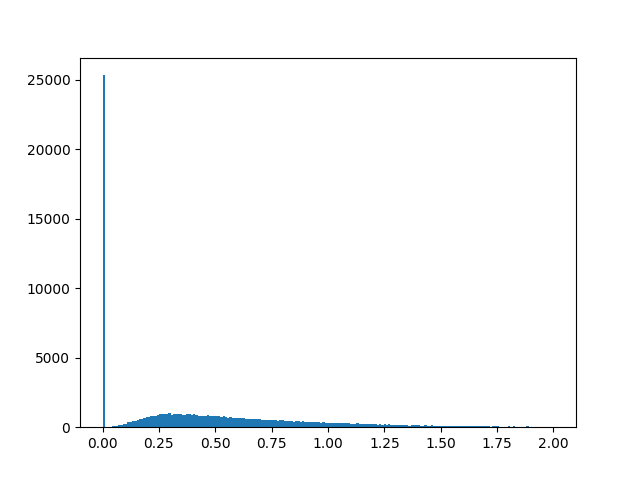
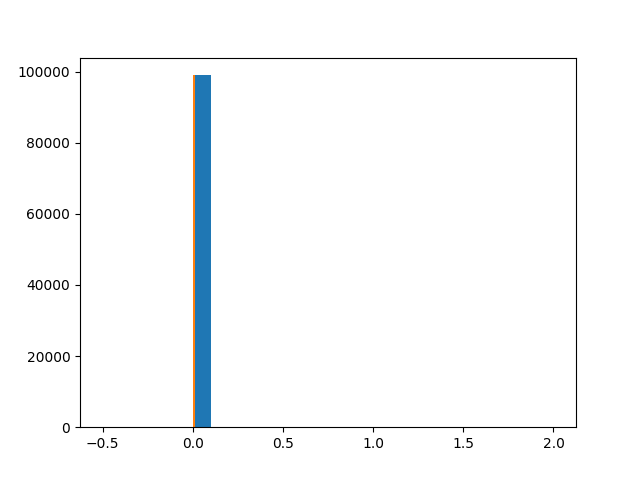
Added example on reading kaskada files

diff --git a/examples/python/test_kaskada.py b/examples/python/test_kaskada.py
@@ -1,0 +1,105 @@
+import pyNUISANCE as pn
+import time
+import matplotlib.pyplot as plt
+import numpy as np
+
+# PRO SELECTA TESTS
+pn.configure()
+
+# SOURCE TEST
+nuwro_source = pn.EventSource("test2_kaskada.root")
+if not nuwro_source: sys.exit()
+
+# FRAME GENERATION
+def hm_muon(evt):
+  part = pn.ps.sel.OutPartHM(evt, pn.ps.pdg.kMuon)
+  if not part: return 0.0
+  return part.momentum().length() * pn.ps.units.GeV
+
+def hm_proton(evt):
+  part = pn.ps.sel.OutPartHM(evt, pn.ps.pdg.kProton)
+  if not part: return 0.0
+  return part.momentum().length() * pn.ps.units.GeV
+
+def hm_neutron(evt):
+  part = pn.ps.sel.OutPartHM(evt, pn.ps.pdg.kNeutron)
+  if not part: return 0.0
+  return part.momentum().length() * pn.ps.units.GeV
+
+def q0(evt):
+    mu = pn.ps.sel.OutPartHM(evt, pn.ps.pdg.kMuon)
+    nu = pn.ps.sel.Beam(evt, pn.ps.pdg.kNuMu)
+    part = pn.ps.proj.parts.q0(nu,mu)
+    if not mu or not nu: return 0
+    return part
+
+def q3(evt):
+    mu = pn.ps.sel.OutPartHM(evt, pn.ps.pdg.kMuon)
+    nu = pn.ps.sel.Beam(evt, pn.ps.pdg.kNuMu)
+    part = pn.ps.proj.parts.q3(nu,mu)
+    if not mu or not nu: return 0
+    return part
+
+
+# Do some testing to grab what we want
+for evt, cw in nuwro_source:
+    outp = pn.ps.sel.OutPartHM(evt,int(pn.ps.pdg.kNeutron))
+    inp = pn.ps.sel.Beam(evt, int(pn.ps.pdg.kNeutron))
+
+    print("INP", outp, inp)
+
+    for vertex in evt.vertices():
+      if vertex.id() == -3: # Nucleon seperation vertex before FSI to get incoming in kaskada
+          for part in vertex.particles_in():
+             print("VERTEX -3, IS_IN", part.status(), part.pid(), part.momentum().e() - part.momentum().m())
+             if part.pid() == 2112:
+                inp = part
+      if vertex.id() == -2:
+          for part in vertex.particles_in():
+             print("FSI", part.status(), part.pid(), part.momentum().e() - part.momentum().m())
+      if vertex.id() == -1: # Hard Scattering outgoing particles
+          for part in vertex.particles_out():
+             print("VERTEX -1, IS_OUT", part.status(), part.pid(), part.momentum().e() - part.momentum().m())
+             if part.pid() == 2112:
+                outp = part
+          
+    if not outp or not inp: continue
+    break
+
+
+    
+# Put all that in a function instead and evaluate into a frame
+def find_scatter_difference(evt):
+  inp = None
+  outp = None
+  for vertex in evt.vertices():
+    if vertex.id() == -3: # Nucleon seperation vertex before FSI to get incoming in kaskada
+        for part in vertex.particles_in():
+            if part.pid() == 2112:
+              inp = part
+    if vertex.id() == -1: # Hard Scattering outgoing particles
+        for part in vertex.particles_out():
+            if part.pid() == 2112:
+              outp = part
+        
+  if not outp or not inp: return -1.0
+  return (inp.momentum() - outp.momentum()).e()
+
+print("FRAME Evaluation")
+fr = pn.FrameGen(nuwro_source, 100000)
+fr.AddColumn("hm_muon", hm_muon)
+fr.AddColumn("hm_proton", hm_proton)
+fr.AddColumn("hm_neutron", hm_neutron)
+fr.AddColumn("scatter_dif", find_scatter_difference)
+
+fr.Limit(99000)
+df = fr.Evaluate()
+
+print(df["scatter_dif"])
+plt.scatter(df["scatter_dif"], df["hm_proton"], s=2)
+plt.savefig("scatterdif.png")
+plt.clf()
+
+plt.hist( df.hm_proton[ df.scatter_dif < 0.001] )
+plt.savefig("scatteramp.png")
+plt.clf()
